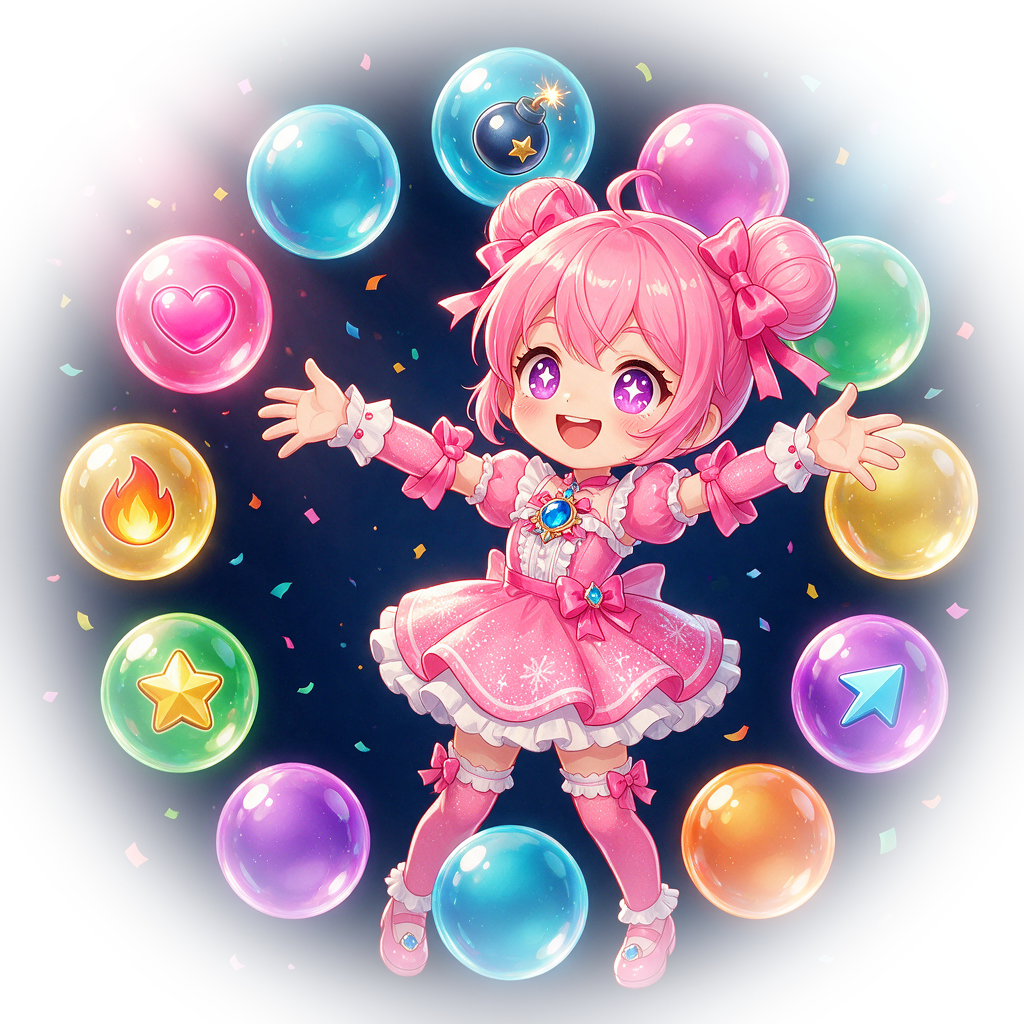
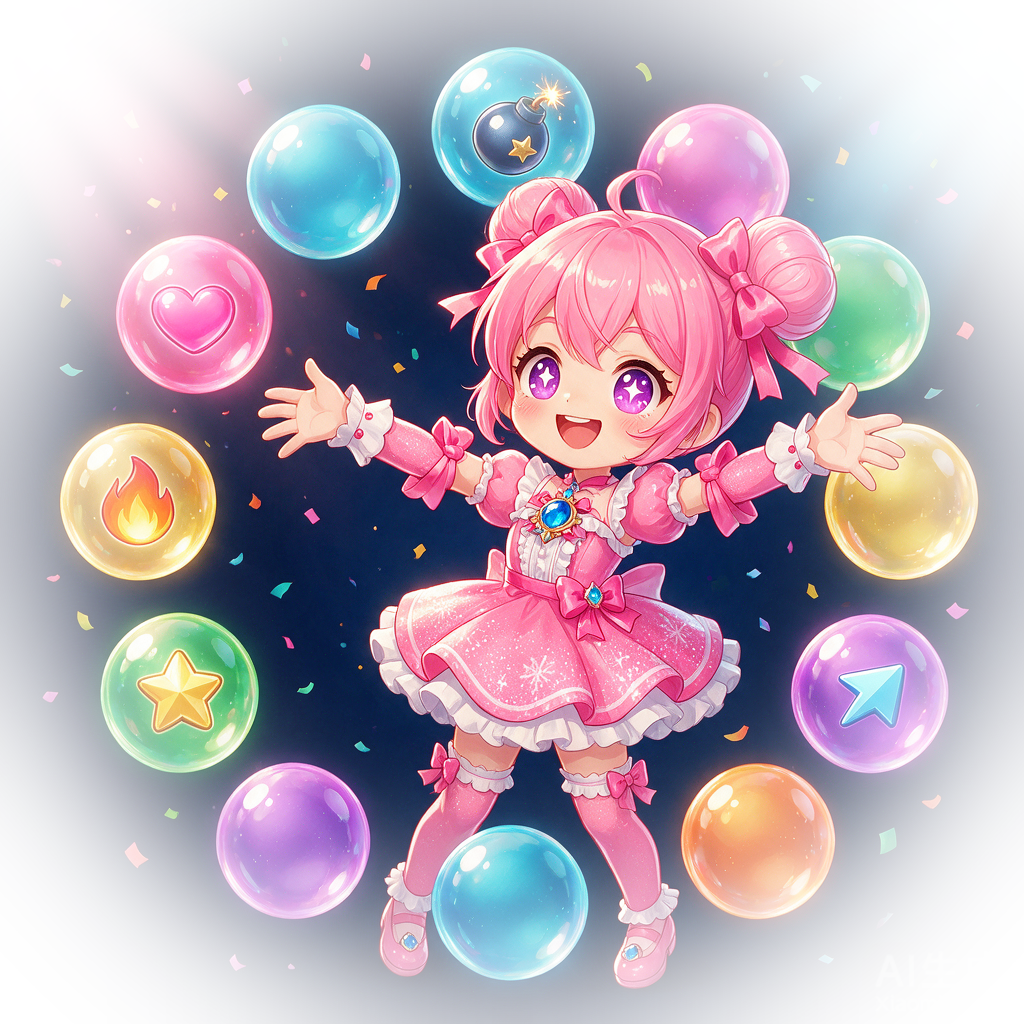
fix: clean menu UI with soft hero image edges, neon title, glass cards

Changed region(s): [[0.0625, 0.0625, 0.9375, 0.9375]]

diff --git a/game.js b/game.js
@@ -1581,32 +1581,31 @@ const Game = {
 
     /* ===== 背景 ===== */
     const bg = ctx.createLinearGradient(0, 0, CW, CH);
-    bg.addColorStop(0, '#0c1028'); bg.addColorStop(0.35, '#101838');
-    bg.addColorStop(0.65, '#0e1430'); bg.addColorStop(1, '#0a0e1e');
+    bg.addColorStop(0, '#0c1028'); bg.addColorStop(0.4, '#101838');
+    bg.addColorStop(0.7, '#0e1430'); bg.addColorStop(1, '#0a0e1e');
     ctx.fillStyle = bg; ctx.fillRect(0, 0, CW, CH);
 
-    /* 顶部两束聚光灯 */
-    [0.2, 0.8].forEach(function(fx, i) {
+    /* 顶部聚光灯 */
+    [0.15, 0.85].forEach(function(fx, i) {
       var lx = CW * fx;
-      var sl = ctx.createRadialGradient(lx, 0, 10, lx, CH * 0.5, CH * 0.7);
-      sl.addColorStop(0, i === 0 ? 'rgba(255,120,160,0.1)' : 'rgba(100,160,255,0.1)');
-      sl.addColorStop(0.5, 'rgba(100,100,200,0.03)');
+      var sl = ctx.createRadialGradient(lx, -CH * 0.1, 10, lx, CH * 0.4, CH * 0.8);
+      sl.addColorStop(0, i === 0 ? 'rgba(255,120,160,0.08)' : 'rgba(100,160,255,0.08)');
+      sl.addColorStop(0.5, 'rgba(80,80,160,0.02)');
       sl.addColorStop(1, 'rgba(0,0,0,0)');
       ctx.fillStyle = sl; ctx.fillRect(0, 0, CW, CH);
     });
 
     /* 漂浮光球 */
     var orbs = [
-      'rgba(79,143,220,0.08)','rgba(224,91,91,0.07)','rgba(255,224,102,0.06)',
-      'rgba(63,166,91,0.05)','rgba(200,63,122,0.05)','rgba(100,200,255,0.07)',
-      'rgba(255,160,80,0.05)','rgba(180,100,255,0.05)'
+      'rgba(79,143,220,0.07)','rgba(224,91,91,0.06)','rgba(255,224,102,0.05)',
+      'rgba(63,166,91,0.04)','rgba(200,63,122,0.04)','rgba(100,200,255,0.06)',
+      'rgba(255,160,80,0.04)','rgba(180,100,255,0.04)'
     ];
     for (var i = 0; i < 8; i++) {
-      var sp = 0.12 + i * 0.05;
-      var ox = (0.08 + i * 0.12) * CW, oy = (0.1 + i * 0.1) * CH;
-      var px = ox + Math.sin(t * sp + i * 2.1) * 35;
-      var py = oy + Math.cos(t * sp * 0.7 + i * 1.7) * 28;
-      var r = Math.max(1, 35 + i * 14 + Math.sin(t * 0.4 + i) * 12);
+      var sp = 0.1 + i * 0.04;
+      var px = (0.05 + i * 0.13) * CW + Math.sin(t * sp + i * 2.1) * 30;
+      var py = (0.08 + i * 0.11) * CH + Math.cos(t * sp * 0.6 + i * 1.7) * 25;
+      var r = Math.max(1, 30 + i * 12 + Math.sin(t * 0.35 + i) * 10);
       var g = ctx.createRadialGradient(px, py, 0, px, py, r);
       g.addColorStop(0, orbs[i]); g.addColorStop(1, 'rgba(0,0,0,0)');
       ctx.fillStyle = g; ctx.fillRect(px - r, py - r, r * 2, r * 2);
@@ -1614,161 +1613,95 @@ const Game = {
 
     /* 彩色纸屑 */
     var cc = ['#ff6b8a','#3dc8ff','#ffb830','#3fa65b','#c850ff','#ff6b3d','#4f8fdc','#ff50a0'];
-    for (var j = 0; j < 30; j++) {
+    for (var j = 0; j < 20; j++) {
       var sd = j * 97.3;
-      var spd2 = 0.05 + (j % 5) * 0.02;
-      var cx2 = ((t * spd2 + sd * 3) % (CW + 60)) - 30;
-      var cy2 = ((t * spd2 * 0.45 + sd * 2.1) % (CH + 60)) - 30;
-      var w2 = 5 + (j % 3) * 3, h2 = 2 + (j % 2) * 2;
-      ctx.save(); ctx.globalAlpha = 0.28 + Math.sin(t * 1.1 + j) * 0.12;
-      ctx.translate(cx2, cy2); ctx.rotate(t * (0.35 + j * 0.07) + sd);
+      var spd = 0.04 + (j % 4) * 0.015;
+      var cx2 = ((t * spd + sd * 3) % (CW + 40)) - 20;
+      var cy2 = ((t * spd * 0.4 + sd * 2.1) % (CH + 40)) - 20;
+      var w2 = 4 + (j % 3) * 2, h2 = 2 + (j % 2) * 1;
+      ctx.save(); ctx.globalAlpha = 0.22 + Math.sin(t + j) * 0.1;
+      ctx.translate(cx2, cy2); ctx.rotate(t * (0.3 + j * 0.05) + sd);
       ctx.fillStyle = cc[j % cc.length];
       ctx.fillRect(-w2 / 2, -h2 / 2, w2, h2); ctx.restore();
     }
     ctx.globalAlpha = 1;
 
-    /* ===== 右侧角色主视觉 ===== */
+    /* ===== 右侧角色海报 ===== */
     if (CW >= 500) {
       var heroImg = Assets.get('bg/menuHero');
       if (heroImg) {
-        var hcX = CW * 0.70, hcY = CH * 0.50;
-        var hSize = Math.min(CW * 0.55, CH * 0.92);
-
+        var hcX = CW * 0.72, hcY = CH * 0.48;
+        var hSize = Math.min(CW * 0.5, CH * 0.85);
         /* 背后光晕 */
-        var haloR = hSize * 0.6;
-        var halo = ctx.createRadialGradient(hcX, hcY, 10, hcX, hcY, haloR);
-        halo.addColorStop(0, 'rgba(255,140,200,0.1)');
-        halo.addColorStop(0.4, 'rgba(100,150,255,0.05)');
+        var halo = ctx.createRadialGradient(hcX, hcY, 10, hcX, hcY, hSize * 0.55);
+        halo.addColorStop(0, 'rgba(255,140,200,0.08)');
+        halo.addColorStop(0.5, 'rgba(100,150,255,0.04)');
         halo.addColorStop(1, 'rgba(0,0,0,0)');
         ctx.fillStyle = halo;
-        ctx.beginPath(); ctx.arc(hcX, hcY, haloR, 0, Math.PI * 2); ctx.fill();
-
-        /* 直接画（PNG 已做成圆形透明边缘） + 边缘渐变遮罩 */
+        ctx.beginPath(); ctx.arc(hcX, hcY, hSize * 0.55, 0, Math.PI * 2); ctx.fill();
+        /* 画海报（PNG 已有柔和透明边缘） */
         ctx.save();
         ctx.translate(hcX, hcY);
-        ctx.rotate(Math.sin(t * 0.15) * 0.005);
         ctx.drawImage(heroImg, -hSize / 2, -hSize / 2, hSize, hSize);
         ctx.restore();
-
-        /* 边缘羽化：径向渐变从透明到背景色 */
-        var fadeR = hSize * 0.85;
-        var fade = ctx.createRadialGradient(hcX, hcY, fadeR * 0.08, hcX, hcY, fadeR);
-        fade.addColorStop(0, 'rgba(10,14,30,0)');
-        fade.addColorStop(0.12, 'rgba(10,14,30,0)');
-        fade.addColorStop(0.25, 'rgba(10,14,30,0.001)');
-        fade.addColorStop(0.35, 'rgba(10,14,30,0.003)');
-        fade.addColorStop(0.42, 'rgba(10,14,30,0.01)');
-        fade.addColorStop(0.46, 'rgba(10,14,30,0.03)');
-        fade.addColorStop(0.49, 'rgba(10,14,30,0.06)');
-        fade.addColorStop(0.52, 'rgba(10,14,30,0.12)');
-        fade.addColorStop(0.54, 'rgba(10,14,30,0.2)');
-        fade.addColorStop(0.57, 'rgba(10,14,30,0.3)');
-        fade.addColorStop(0.6, 'rgba(10,14,30,0.4)');
-        fade.addColorStop(0.64, 'rgba(10,14,30,0.52)');
-        fade.addColorStop(0.68, 'rgba(10,14,30,0.62)');
-        fade.addColorStop(0.72, 'rgba(10,14,30,0.72)');
-        fade.addColorStop(0.78, 'rgba(10,14,30,0.82)');
-        fade.addColorStop(0.84, 'rgba(10,14,30,0.9)');
-        fade.addColorStop(0.9, 'rgba(10,14,30,0.95)');
-        fade.addColorStop(0.96, 'rgba(10,14,30,0.99)');
-        fade.addColorStop(1, 'rgba(10,14,30,1)');
-        ctx.fillStyle = fade;
-        ctx.beginPath(); ctx.arc(hcX, hcY, fadeR, 0, Math.PI * 2); ctx.fill();
-
-        /* 四角补渐变 */
-        var cornerR = hSize * 0.16;
-        [[-0.20, -0.20], [0.20, -0.20], [-0.20, 0.20], [0.20, 0.20]].forEach(function(c) {
-          var cx2 = hcX + c[0] * hSize;
-          var cy2 = hcY + c[1] * hSize;
-          var cg = ctx.createRadialGradient(cx2, cy2, 0, cx2, cy2, cornerR);
-          cg.addColorStop(0, 'rgba(10,14,30,1)');
-          cg.addColorStop(0.06, 'rgba(10,14,30,0.99)');
-          cg.addColorStop(0.14, 'rgba(10,14,30,0.9)');
-          cg.addColorStop(0.22, 'rgba(10,14,30,0.75)');
-          cg.addColorStop(0.3, 'rgba(10,14,30,0.55)');
-          cg.addColorStop(0.38, 'rgba(10,14,30,0.38)');
-          cg.addColorStop(0.46, 'rgba(10,14,30,0.22)');
-          cg.addColorStop(0.55, 'rgba(10,14,30,0.1)');
-          cg.addColorStop(0.65, 'rgba(10,14,30,0.04)');
-          cg.addColorStop(0.8, 'rgba(10,14,30,0.008)');
-          cg.addColorStop(1, 'rgba(10,14,30,0)');
-          ctx.fillStyle = cg;
-          ctx.fillRect(cx2 - cornerR, cy2 - cornerR, cornerR * 2, cornerR * 2);
-        });
-      } else {
-        /* 降级：手绘角色 */
-        var charX = CW * 0.72, charY = CH * 0.46;
-        var charR = Math.min(CW, CH) * 0.22;
-        var hR = charR * 2.2 + Math.sin(t * 0.3) * 20;
-        var hl = ctx.createRadialGradient(charX, charY, 10, charX, charY, hR);
-        hl.addColorStop(0, 'rgba(255,140,200,0.14)');
-        hl.addColorStop(0.35, 'rgba(120,160,255,0.08)');
-        hl.addColorStop(0.6, 'rgba(255,180,60,0.04)');
-        hl.addColorStop(1, 'rgba(0,0,0,0)');
-        ctx.fillStyle = hl; ctx.beginPath(); ctx.arc(charX, charY, hR, 0, Math.PI * 2); ctx.fill();
-        this.drawChar({
-          x: charX, y: charY, alive: true, dying: 0,
-          color: '#ff6bb5', face: { x: 0, y: 0 },
-          anim: t, moving: false, isAI: false
-        });
       }
     }
 
     /* ===== 左侧标题 + 菜单 ===== */
-    var mx = Math.max(32, CW * 0.05);
-    var titleY = CH * 0.05;
+    var mx = Math.max(36, CW * 0.055);
+    var titleY = CH * 0.06;
 
     /* --- 泡泡爆破 大标题 --- */
     ctx.save();
-    var tSz = Math.round(Math.min(CW * 0.058, CH * 0.105));
-    /* 标题底光 */
-    var tgl = ctx.createRadialGradient(mx + tSz * 1.8, titleY + tSz * 0.4, 5, mx + tSz * 1.8, titleY + tSz * 0.4, tSz * 3);
-    tgl.addColorStop(0, 'rgba(80,140,255,0.16)'); tgl.addColorStop(0.4, 'rgba(255,100,180,0.08)'); tgl.addColorStop(1, 'rgba(0,0,0,0)');
-    ctx.fillStyle = tgl; ctx.fillRect(mx - 50, titleY - 40, tSz * 5, tSz * 2.5);
+    var tSz = Math.round(Math.min(CW * 0.055, CH * 0.1));
 
-    /* "泡泡" 蓝色渐变感 */
+    /* 标题底光 */
+    var tgl = ctx.createRadialGradient(mx + tSz * 1.5, titleY + tSz * 0.4, 5, mx + tSz * 1.5, titleY + tSz * 0.4, tSz * 2.5);
+    tgl.addColorStop(0, 'rgba(80,140,255,0.12)'); tgl.addColorStop(0.5, 'rgba(255,100,180,0.06)'); tgl.addColorStop(1, 'rgba(0,0,0,0)');
+    ctx.fillStyle = tgl; ctx.fillRect(mx - 40, titleY - 30, tSz * 4, tSz * 2);
+
     ctx.font = '900 ' + tSz + 'px "Microsoft YaHei", sans-serif';
     ctx.textAlign = 'left'; ctx.textBaseline = 'top';
-    /* 外发光 */
-    ctx.shadowColor = 'rgba(60,140,255,1)'; ctx.shadowBlur = 35;
+
+    /* "泡泡" 蓝色 - 双层发光 */
+    ctx.shadowColor = 'rgba(60,140,255,1)'; ctx.shadowBlur = 30;
     ctx.fillStyle = '#4a9fff'; ctx.fillText('泡泡', mx, titleY);
-    /* 内亮层 */
-    ctx.shadowBlur = 10; ctx.shadowColor = 'rgba(160,220,255,0.8)';
+    ctx.shadowBlur = 8; ctx.shadowColor = 'rgba(160,220,255,0.7)';
     ctx.fillStyle = '#90d0ff'; ctx.fillText('泡泡', mx, titleY);
 
-    /* "爆破" 粉色渐变感 */
+    /* "爆破" 粉色 - 双层发光 */
     var pw = ctx.measureText('泡泡').width;
-    ctx.shadowColor = 'rgba(255,70,160,1)'; ctx.shadowBlur = 35;
+    ctx.shadowColor = 'rgba(255,70,160,1)'; ctx.shadowBlur = 30;
     ctx.fillStyle = '#ff50a0'; ctx.fillText('爆破', mx + pw, titleY);
-    ctx.shadowBlur = 10; ctx.shadowColor = 'rgba(255,160,200,0.8)';
+    ctx.shadowBlur = 8; ctx.shadowColor = 'rgba(255,160,200,0.7)';
     ctx.fillStyle = '#ff90c8'; ctx.fillText('爆破', mx + pw, titleY);
     ctx.shadowBlur = 0;
 
-    /* 标题两侧星形装饰 */
-    var starSz = tSz * 0.18;
-    [[mx - starSz * 1.5, titleY + tSz * 0.3, '#5aadff'], [mx + pw + tSz * 2.3, titleY + tSz * 0.5, '#ff6bb5']].forEach(function(s, si) {
-      ctx.fillStyle = s[2]; ctx.globalAlpha = 0.7 + Math.sin(t * 2.5 + si * 1.5) * 0.25;
+    /* 标题两侧星形 */
+    var starSz = tSz * 0.16;
+    [[mx - starSz * 1.2, titleY + tSz * 0.25, '#5aadff'], [mx + pw + tSz * 2, titleY + tSz * 0.45, '#ff6bb5']].forEach(function(s, si) {
+      ctx.fillStyle = s[2]; ctx.globalAlpha = 0.6 + Math.sin(t * 2.5 + si * 1.5) * 0.25;
       ctx.save(); ctx.translate(s[0], s[1]); ctx.rotate(t * 0.5 + si);
       ctx.beginPath();
       for (var k = 0; k < 4; k++) {
         var a2 = k * Math.PI / 2;
         ctx.lineTo(Math.cos(a2) * starSz, Math.sin(a2) * starSz);
-        ctx.lineTo(Math.cos(a2 + Math.PI / 4) * starSz * 0.4, Math.sin(a2 + Math.PI / 4) * starSz * 0.4);
+        ctx.lineTo(Math.cos(a2 + Math.PI / 4) * starSz * 0.35, Math.sin(a2 + Math.PI / 4) * starSz * 0.35);
       }
       ctx.closePath(); ctx.fill(); ctx.restore(); ctx.globalAlpha = 1;
     });
     ctx.restore();
 
-    /* 标题下装饰线 + 菱形 */
-    var lineY = titleY + tSz + 14;
-    var lg = ctx.createLinearGradient(mx, 0, mx + 280, 0);
-    lg.addColorStop(0, 'rgba(80,160,255,0.6)'); lg.addColorStop(0.45, 'rgba(255,100,180,0.5)'); lg.addColorStop(1, 'rgba(255,100,180,0)');
-    ctx.strokeStyle = lg; ctx.lineWidth = 2.5;
-    ctx.beginPath(); ctx.moveTo(mx, lineY); ctx.lineTo(mx + 280, lineY); ctx.stroke();
-    [[mx + 90, '#5aadff'], [mx + 170, '#ff6bb5']].forEach(function(d, di) {
-      ctx.fillStyle = d[1]; ctx.globalAlpha = 0.7 + Math.sin(t * 2.2 + di) * 0.2;
-      ctx.beginPath(); ctx.moveTo(d[0], lineY - 5); ctx.lineTo(d[0] + 5, lineY);
-      ctx.lineTo(d[0], lineY + 5); ctx.lineTo(d[0] - 5, lineY); ctx.closePath(); ctx.fill(); ctx.globalAlpha = 1;
+    /* 装饰线 */
+    var lineY = titleY + tSz + 12;
+    var lg = ctx.createLinearGradient(mx, 0, mx + 240, 0);
+    lg.addColorStop(0, 'rgba(80,160,255,0.5)'); lg.addColorStop(0.45, 'rgba(255,100,180,0.4)'); lg.addColorStop(1, 'rgba(255,100,180,0)');
+    ctx.strokeStyle = lg; ctx.lineWidth = 2;
+    ctx.beginPath(); ctx.moveTo(mx, lineY); ctx.lineTo(mx + 240, lineY); ctx.stroke();
+    [[mx + 75, '#5aadff'], [mx + 150, '#ff6bb5']].forEach(function(d, di) {
+      ctx.fillStyle = d[1]; ctx.globalAlpha = 0.6 + Math.sin(t * 2 + di) * 0.2;
+      ctx.beginPath(); ctx.moveTo(d[0], lineY - 4); ctx.lineTo(d[0] + 4, lineY);
+      ctx.lineTo(d[0], lineY + 4); ctx.lineTo(d[0] - 4, lineY); ctx.closePath(); ctx.fill(); ctx.globalAlpha = 1;
     });
 
     /* ===== 菜单卡片 ===== */
@@ -1778,9 +1711,9 @@ const Game = {
       { title: '道具挑战', desc: '限定道具 · 极致操作', color: '#ffd23d', icon: 'items/shield' },
       { title: '无尽模式', desc: '越战越勇 · 冲击极限', color: '#3fa65b', icon: 'ui/star-badge' },
     ];
-    var listY = lineY + CH * 0.055;
-    var rowH = Math.min(CH * 0.14, 95);
-    var cardW = Math.min(CW * 0.34, 380);
+    var listY = lineY + CH * 0.05;
+    var rowH = Math.min(CH * 0.13, 90);
+    var cardW = Math.min(CW * 0.32, 360);
     var cardH = rowH - 12;
     this.menuRects = [];
 
@@ -1793,21 +1726,22 @@ const Game = {
       var isSelected = this.menuIndex === i;
 
       /* 卡片底 */
-      ctx.fillStyle = isSelected ? 'rgba(18,28,58,0.9)' : isHover ? 'rgba(16,24,50,0.8)' : 'rgba(12,18,40,0.7)';
+      ctx.fillStyle = isSelected ? 'rgba(18,28,58,0.88)' : isHover ? 'rgba(16,24,50,0.78)' : 'rgba(12,18,40,0.68)';
       this.roundRect(btnX, y, btnW, btnH, 14); ctx.fill();
 
       /* 边框 */
       if (isSelected) {
-        ctx.save(); ctx.shadowColor = it.color; ctx.shadowBlur = 26;
+        ctx.save(); ctx.shadowColor = it.color; ctx.shadowBlur = 22;
         ctx.strokeStyle = it.color; ctx.lineWidth = 2.5;
-        ctx.globalAlpha = 0.85 + Math.sin(t * 3.5) * 0.12;
+        ctx.globalAlpha = 0.85 + Math.sin(t * 3.5) * 0.1;
         this.roundRect(btnX, y, btnW, btnH, 14); ctx.stroke();
         ctx.globalAlpha = 1; ctx.shadowBlur = 0; ctx.restore();
+        /* 底光 */
         var bgG = ctx.createLinearGradient(btnX, y, btnX + btnW, y);
-        bgG.addColorStop(0, it.color + '18'); bgG.addColorStop(0.5, 'transparent');
+        bgG.addColorStop(0, it.color + '12'); bgG.addColorStop(0.5, 'transparent');
         ctx.fillStyle = bgG; this.roundRect(btnX, y, btnW, btnH, 14); ctx.fill();
       } else if (isHover) {
-        ctx.save(); ctx.shadowColor = it.color; ctx.shadowBlur = 12;
+        ctx.save(); ctx.shadowColor = it.color; ctx.shadowBlur = 10;
         ctx.strokeStyle = it.color; ctx.lineWidth = 1.5; ctx.globalAlpha = 0.5;
         this.roundRect(btnX, y, btnW, btnH, 14); ctx.stroke();
         ctx.globalAlpha = 1; ctx.shadowBlur = 0; ctx.restore();
@@ -1817,37 +1751,37 @@ const Game = {
       }
 
       /* 左色条 */
-      var barW = isSelected ? 6 : 4;
+      var barW = isSelected ? 5 : 3;
       ctx.save();
-      if (isSelected || isHover) { ctx.shadowColor = it.color; ctx.shadowBlur = isSelected ? 14 : 6; }
-      ctx.fillStyle = it.color; ctx.globalAlpha = isSelected ? 1 : isHover ? 0.85 : 0.6;
+      if (isSelected || isHover) { ctx.shadowColor = it.color; ctx.shadowBlur = isSelected ? 12 : 5; }
+      ctx.fillStyle = it.color; ctx.globalAlpha = isSelected ? 1 : isHover ? 0.8 : 0.5;
       this.roundRect(btnX + 1, y + 8, barW, btnH - 16, barW / 2); ctx.fill();
       ctx.globalAlpha = 1; ctx.shadowBlur = 0; ctx.restore();
 
       /* 图标圆底 */
-      var iconR = 17, iconCx = btnX + 36, iconCy = y + btnH / 2;
+      var iconR = 16, iconCx = btnX + 34, iconCy = y + btnH / 2;
       var ig = ctx.createRadialGradient(iconCx - 4, iconCy - 4, 2, iconCx, iconCy, iconR);
-      ig.addColorStop(0, it.color + '40'); ig.addColorStop(1, it.color + '12');
+      ig.addColorStop(0, it.color + '35'); ig.addColorStop(1, it.color + '10');
       ctx.fillStyle = ig; ctx.beginPath(); ctx.arc(iconCx, iconCy, iconR, 0, Math.PI * 2); ctx.fill();
-      ctx.save(); ctx.strokeStyle = it.color; ctx.globalAlpha = isSelected ? 0.8 : 0.4;
-      ctx.lineWidth = 1.6; ctx.beginPath(); ctx.arc(iconCx, iconCy, iconR, 0, Math.PI * 2); ctx.stroke();
+      ctx.save(); ctx.strokeStyle = it.color; ctx.globalAlpha = isSelected ? 0.7 : 0.35;
+      ctx.lineWidth = 1.5; ctx.beginPath(); ctx.arc(iconCx, iconCy, iconR, 0, Math.PI * 2); ctx.stroke();
       ctx.globalAlpha = 1; ctx.restore();
 
       var iconImg = Assets.get(it.icon);
       if (iconImg) {
-        ctx.save(); ctx.globalAlpha = isSelected ? 1 : 0.7;
-        ctx.drawImage(iconImg, iconCx - 13, iconCy - 13, 26, 26);
+        ctx.save(); ctx.globalAlpha = isSelected ? 1 : 0.65;
+        ctx.drawImage(iconImg, iconCx - 12, iconCy - 12, 24, 24);
         ctx.globalAlpha = 1; ctx.restore();
       } else {
-        ctx.fillStyle = it.color; ctx.globalAlpha = isSelected ? 1 : 0.7;
-        ctx.beginPath(); ctx.arc(iconCx, iconCy, 10, 0, Math.PI * 2); ctx.fill(); ctx.globalAlpha = 1;
+        ctx.fillStyle = it.color; ctx.globalAlpha = isSelected ? 1 : 0.6;
+        ctx.beginPath(); ctx.arc(iconCx, iconCy, 9, 0, Math.PI * 2); ctx.fill(); ctx.globalAlpha = 1;
       }
 
       /* 文字 */
-      var tCol = isSelected ? '#ffe066' : isHover ? '#e8eeff' : '#b0bcda';
-      var dCol = isSelected ? 'rgba(255,248,208,0.85)' : 'rgba(130,145,190,0.8)';
-      this.drawOutlinedText(it.title, btnX + 64, iconCy - 8, Math.round(Math.min(CW * 0.018, 24)), tCol, 'left');
-      this.drawOutlinedText(it.desc, btnX + 64, iconCy + 11, Math.round(Math.min(CW * 0.010, 13)), dCol, 'left');
+      var tCol = isSelected ? '#ffe066' : isHover ? '#e0e8ff' : '#a8b4d0';
+      var dCol = isSelected ? 'rgba(255,248,208,0.8)' : 'rgba(120,135,180,0.75)';
+      this.drawOutlinedText(it.title, btnX + 60, iconCy - 7, Math.round(Math.min(CW * 0.018, 24)), tCol, 'left');
+      this.drawOutlinedText(it.desc, btnX + 60, iconCy + 11, Math.round(Math.min(CW * 0.01, 13)), dCol, 'left');
     }.bind(this));
 
     /* ===== 底部按键提示 ===== */
@@ -1858,32 +1792,33 @@ const Game = {
       { caps: ['V'], label: '全屏' },
       { caps: ['M'], label: '音效' },
     ];
-    var fx = mx, ky = CH - 30;
+    var fx = mx, ky = CH - 28;
     ctx.font = '12px "Microsoft YaHei", sans-serif';
     ctx.textAlign = 'left'; ctx.textBaseline = 'middle';
     segs.forEach(function(s) {
       var x = fx;
       s.caps.forEach(function(c) {
-        if (keycapImg) { ctx.drawImage(keycapImg, x + 4, ky - 10, 22, 22); }
-        else { this.drawKeycap(x + 13, ky, c); }
-        x += 28;
+        if (keycapImg) { ctx.drawImage(keycapImg, x + 3, ky - 10, 20, 20); }
+        else { this.drawKeycap(x + 12, ky, c); }
+        x += 26;
       }.bind(this));
-      ctx.fillStyle = 'rgba(150,165,200,0.5)';
+      ctx.fillStyle = 'rgba(140,155,195,0.45)';
       ctx.fillText(s.label, x + 5, ky + 1);
-      fx = x + 5 + ctx.measureText(s.label).width + 20;
+      fx = x + 5 + ctx.measureText(s.label).width + 18;
     }.bind(this));
 
-    ctx.fillStyle = 'rgba(255,255,255,0.15)';
+    ctx.fillStyle = 'rgba(255,255,255,0.12)';
     ctx.font = '11px monospace';
     ctx.fillText('Version 1.0.0', 10, CH - 10);
 
-    /* ===== 暗角 ===== */
+    /* 暗角 */
     var vg = ctx.createRadialGradient(CW / 2, CH / 2, Math.min(CW, CH) * 0.35, CW / 2, CH / 2, Math.max(CW, CH) * 0.75);
-    vg.addColorStop(0, 'rgba(5,8,20,0)'); vg.addColorStop(0.6, 'rgba(5,8,20,0.15)'); vg.addColorStop(1, 'rgba(5,8,20,0.45)');
+    vg.addColorStop(0, 'rgba(5,8,20,0)'); vg.addColorStop(0.6, 'rgba(5,8,20,0.12)'); vg.addColorStop(1, 'rgba(5,8,20,0.4)');
     ctx.fillStyle = vg; ctx.fillRect(0, 0, CW, CH);
 
     ctx.restore();
   },
+
 
 
 };
